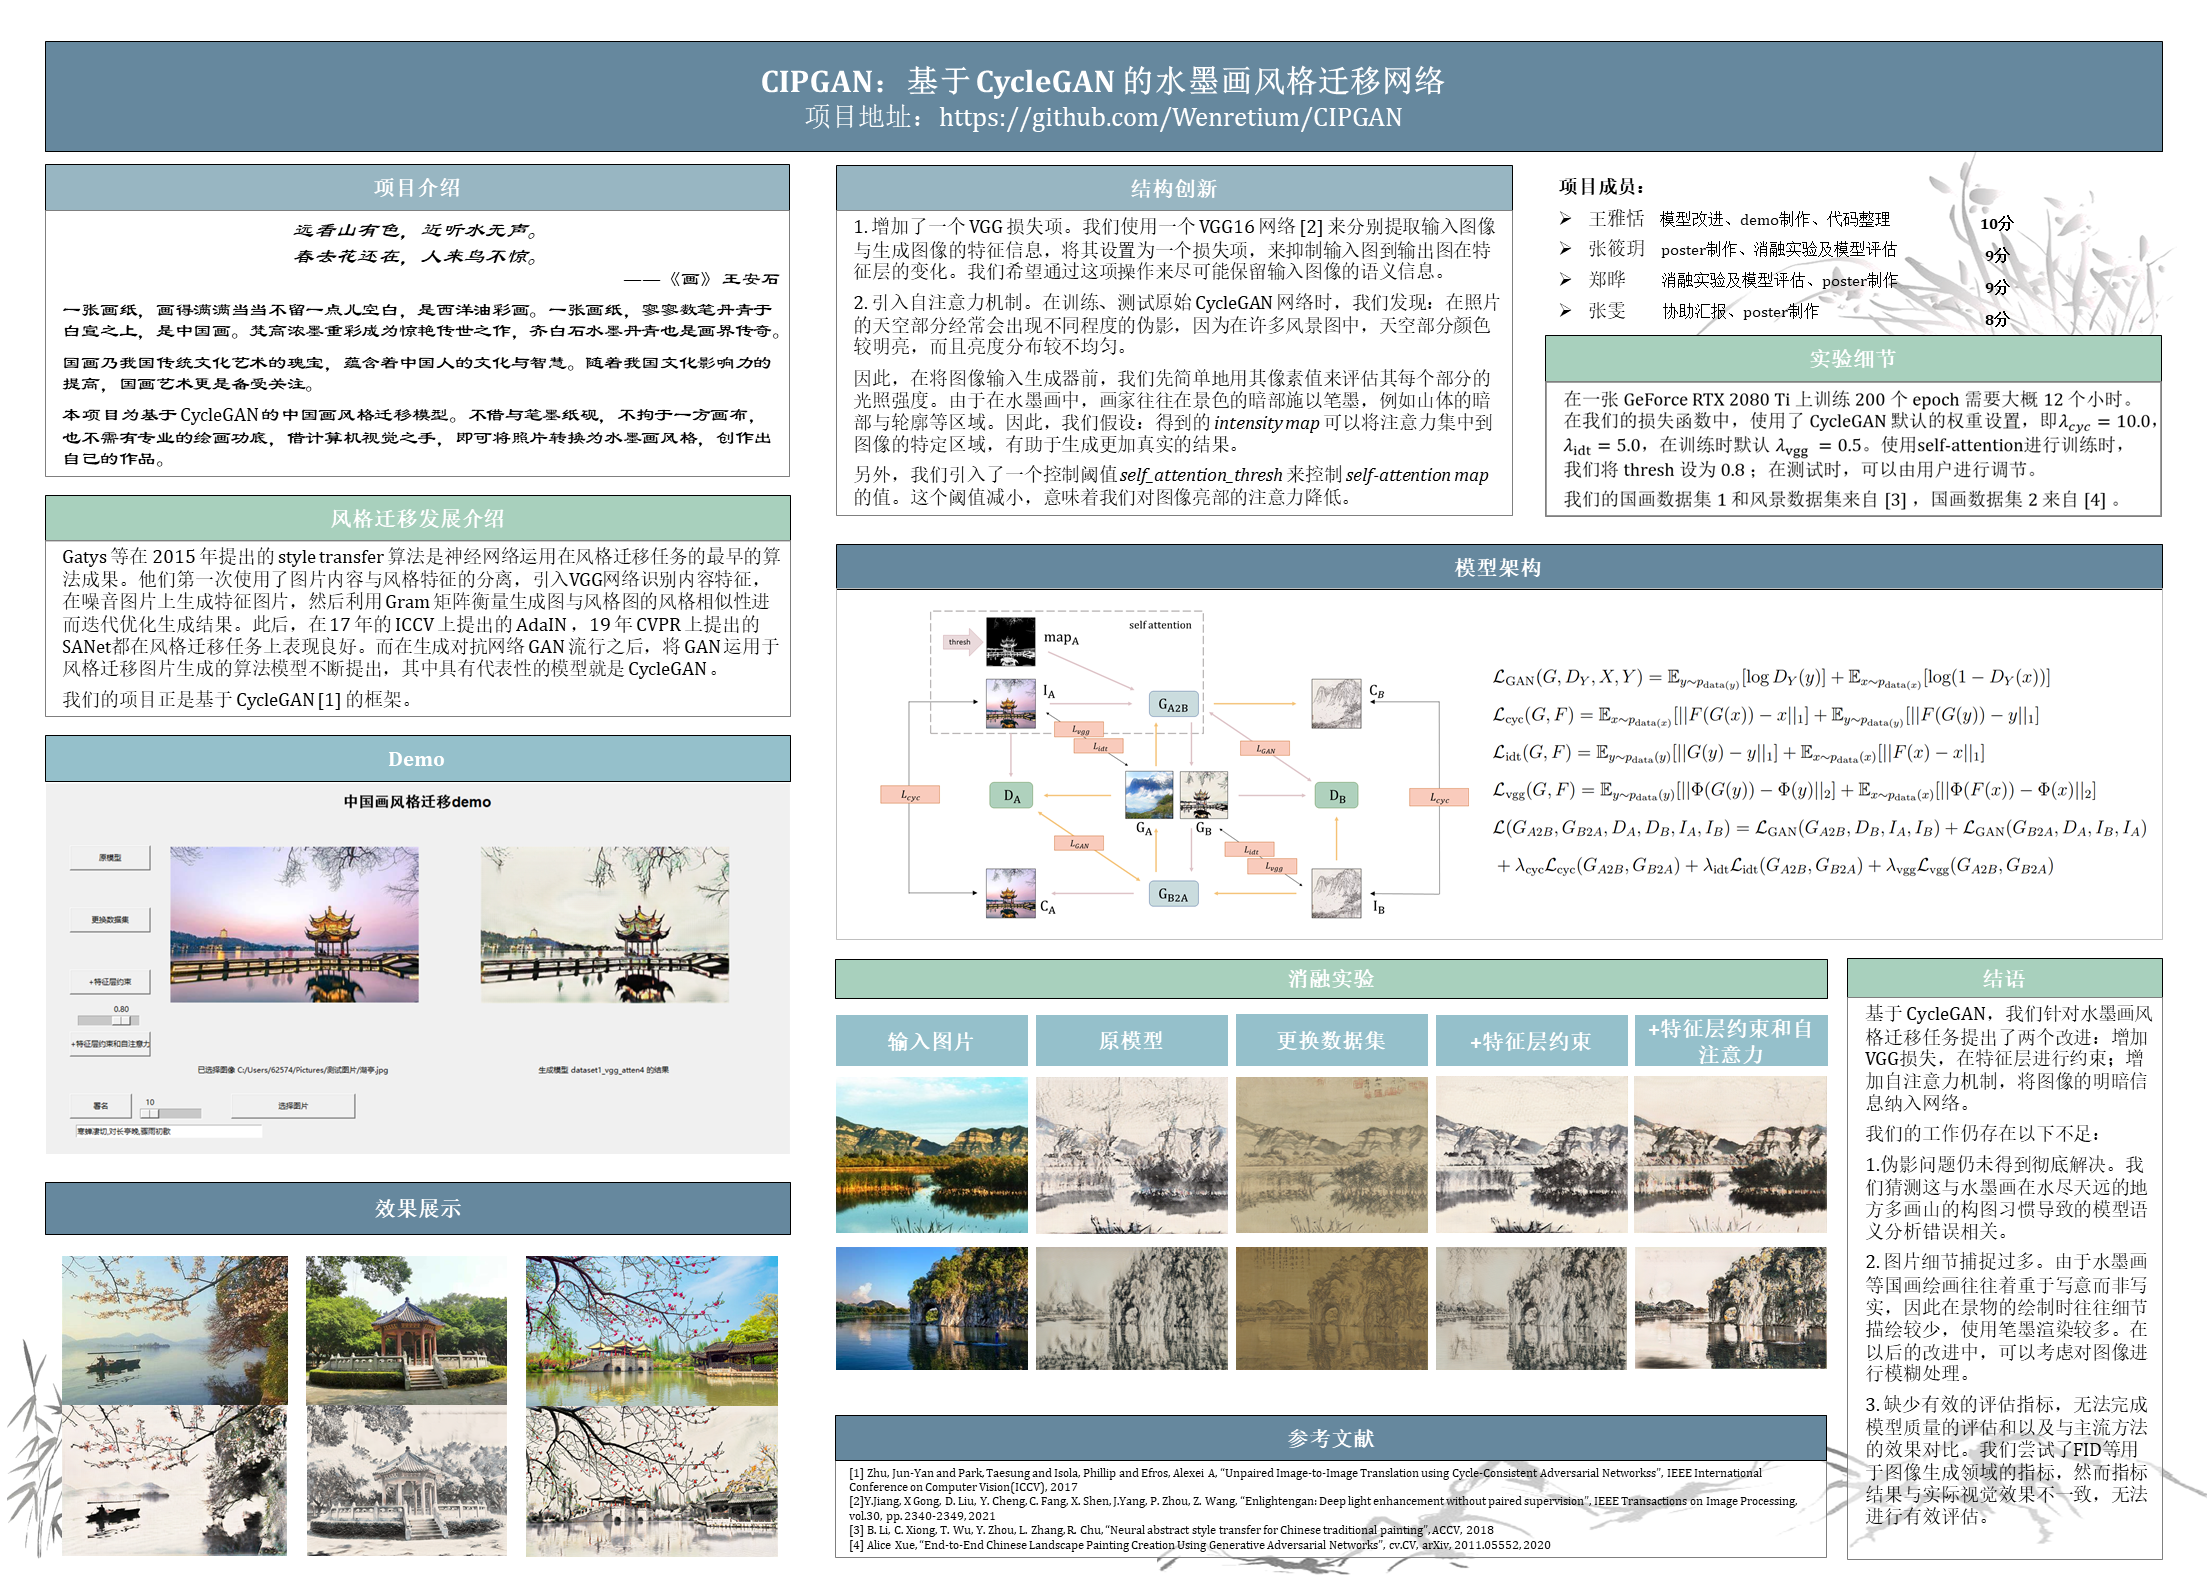
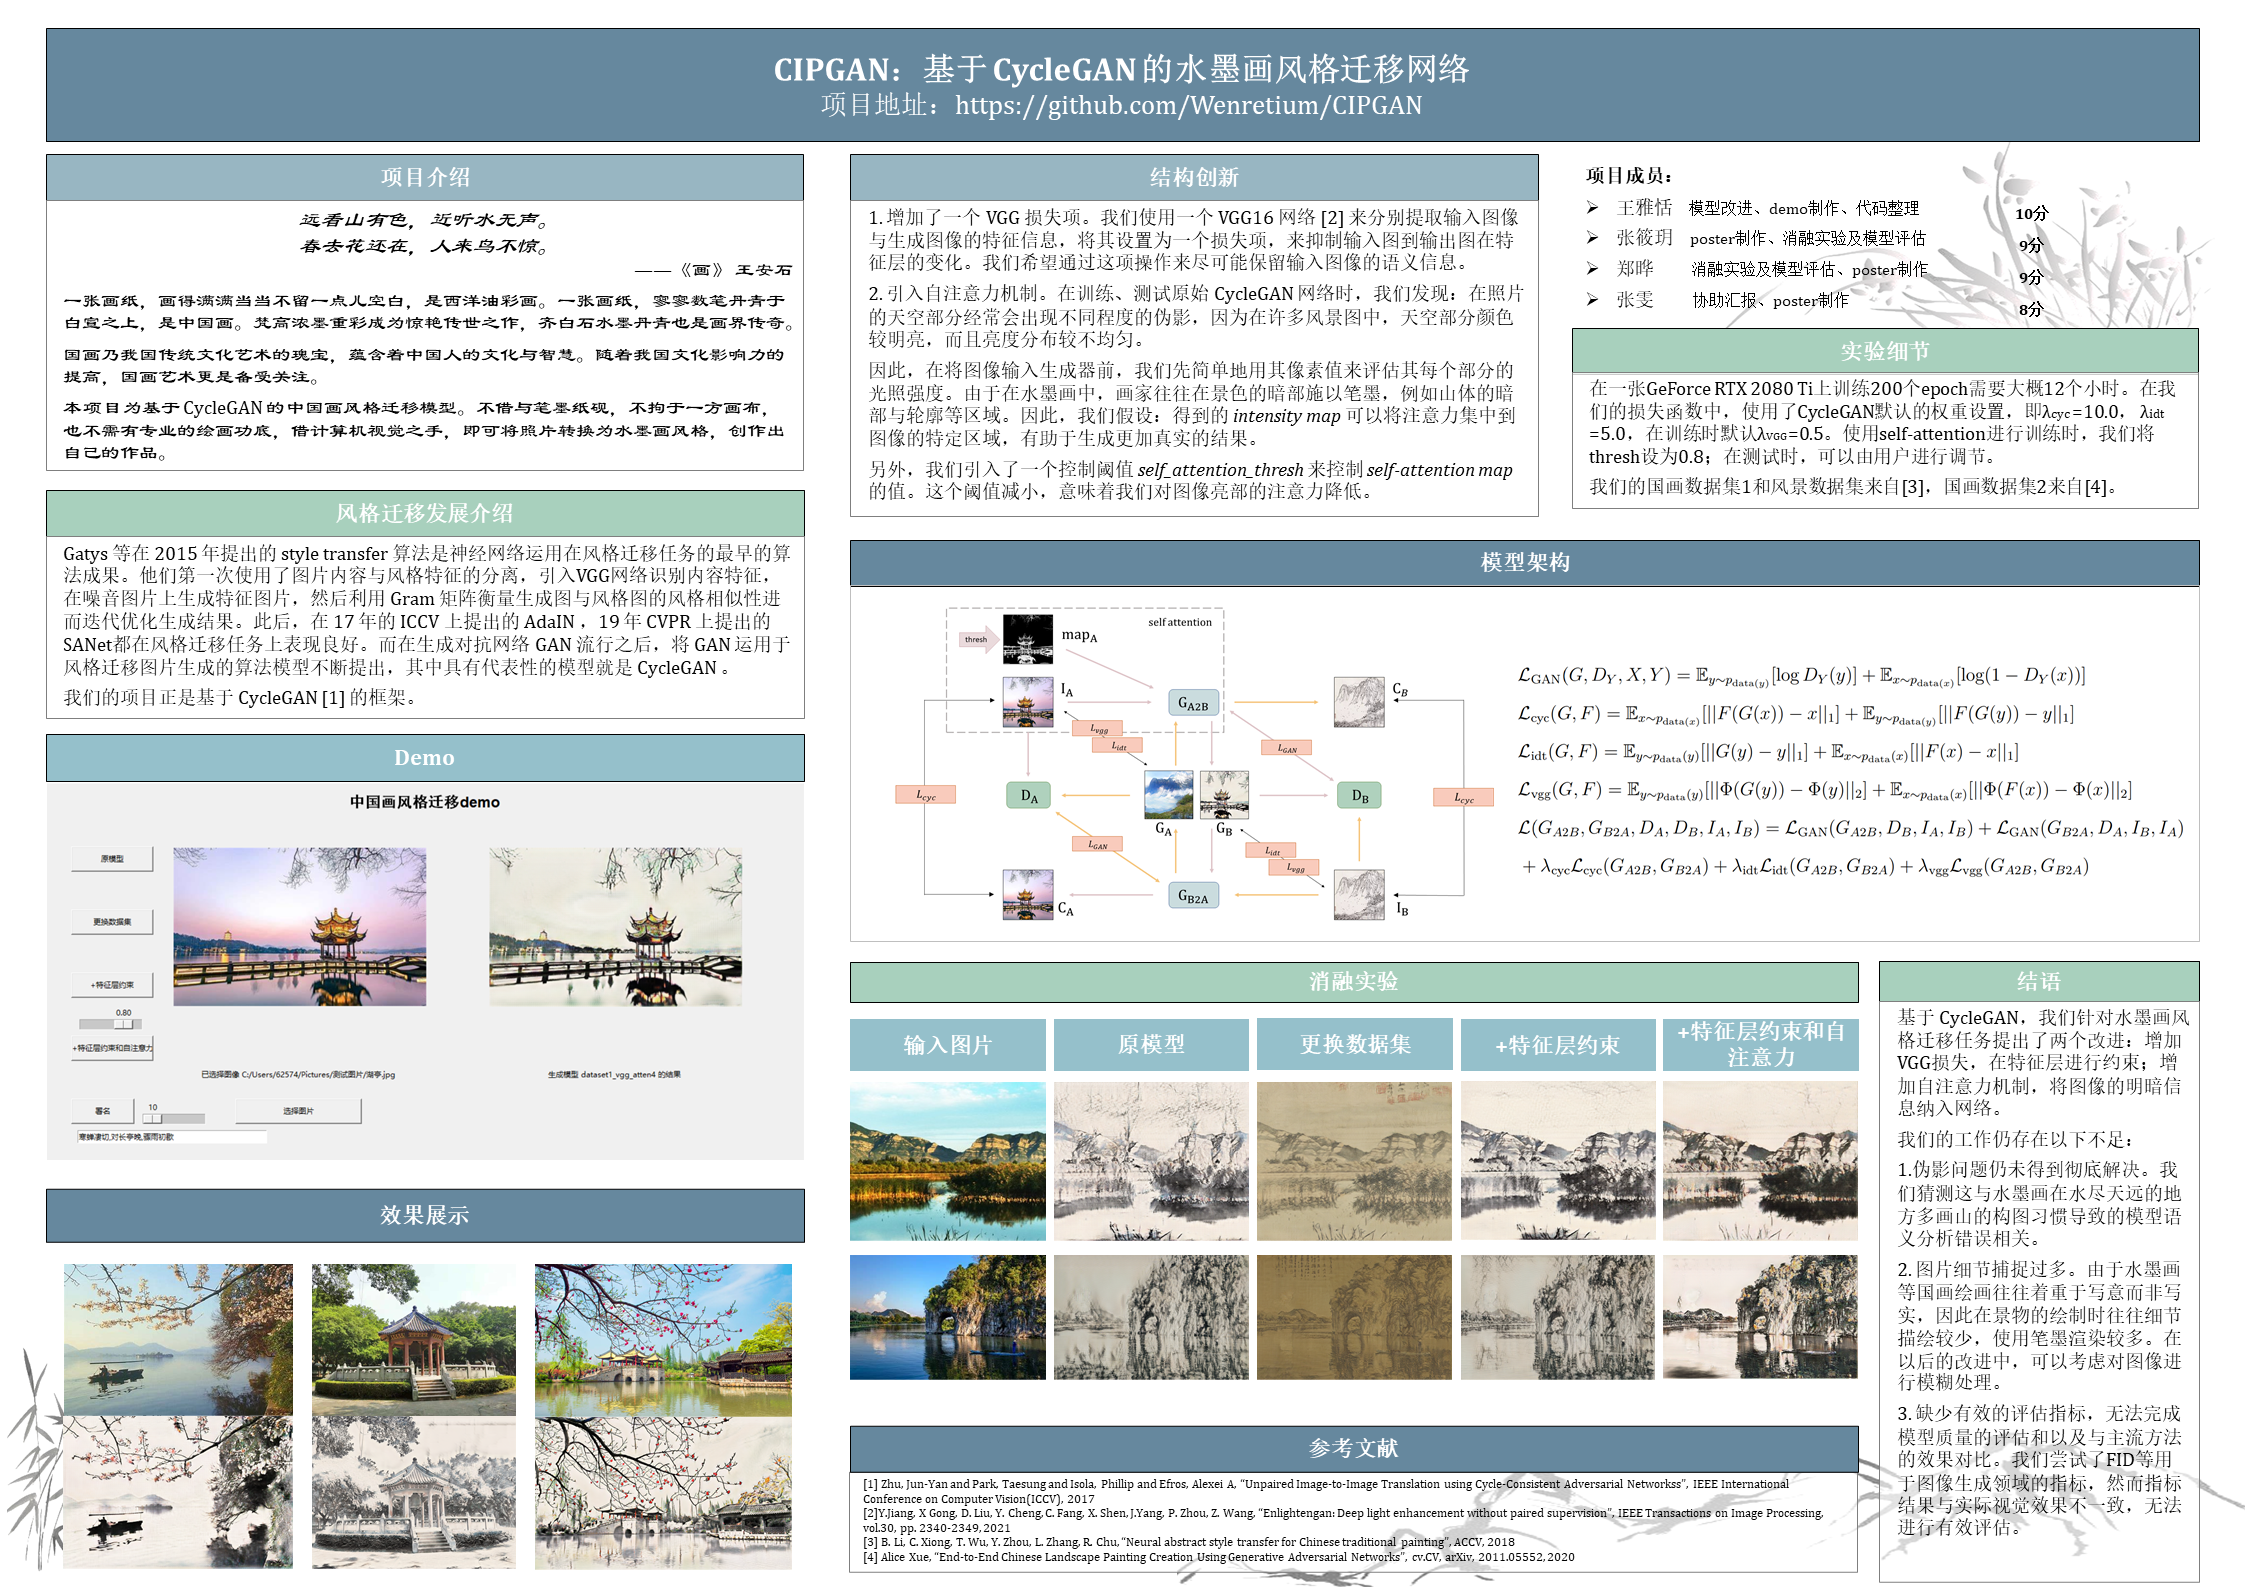
update

diff --git a/README.md b/README.md
@@ -111,7 +111,7 @@ You can choose your own test image and get the result immediately. The results a
 
 ![model](README/model.png)
 
-<img src="README/model2.png" alt="model2" style="zoom: 33%;" />
+<img src="README/model2.png">
 
 
 #### Contributes
